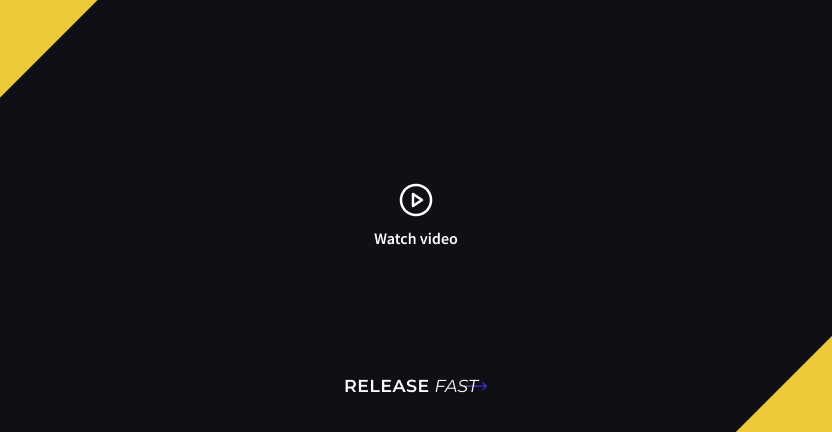
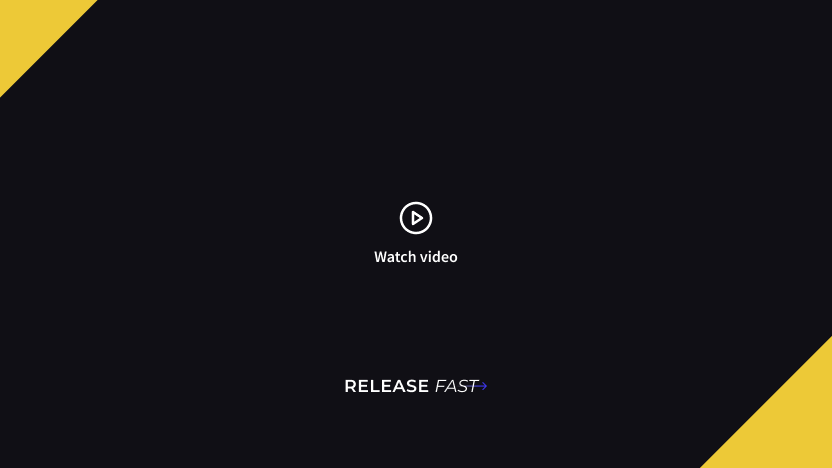
refactor: simplify Video component by removing fullscreen functionality and updating layout

diff --git a/src/app/(pages)/(home)/_components/HowItWorks/components/Video/index.tsx b/src/app/(pages)/(home)/_components/HowItWorks/components/Video/index.tsx
@@ -1,42 +1,18 @@
 'use client';
 
-import { useRef } from 'react';
-import Image from 'next/image';
-
 export default function Video() {
-  const videoRef = useRef<HTMLVideoElement | null>(null);
-
-  function handleClickVideo() {
-    if (!videoRef.current) return;
-
-    videoRef.current.requestFullscreen();
-    videoRef.current.play();
-  }
-
   return (
-    <>
-      <div
-        className="w-full h-[224px] md:w-[832px] md:h-[432px] bg-text-primary rounded-3xl flex items-center justify-center overflow-hidden cursor-pointer"
-        onClick={handleClickVideo}
-      >
-        <Image
-          src="/images/video-thumbnail.png"
-          width={832}
-          height={432}
-          alt="Video Thumbnail"
-        />
-      </div>
-
+    <div className="flex w-[324px] h-[182px] md:w-[832px] md:h-[468px] bg-text-primary items-center justify-center overflow-hidden cursor-pointer border border-border">
       <video
-        ref={videoRef}
         id="video"
         controls
+        className="w-[324px] h-[182px] md:w-[832px] md:h-[468px]"
         preload="none"
-        className="absolute top-[-1000rem] right-[-1000rem] z-[-1000]"
+        poster="/images/video-thumbnail.png"
       >
         <source src="/videos/how-it-works-v1.mp4" type="video/mp4" />
         Your browser does not support the video tag.
       </video>
-    </>
+    </div>
   );
 }
